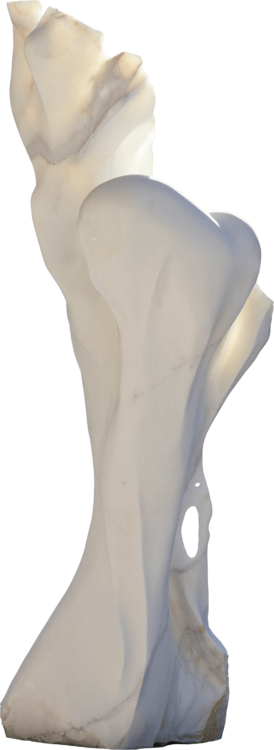
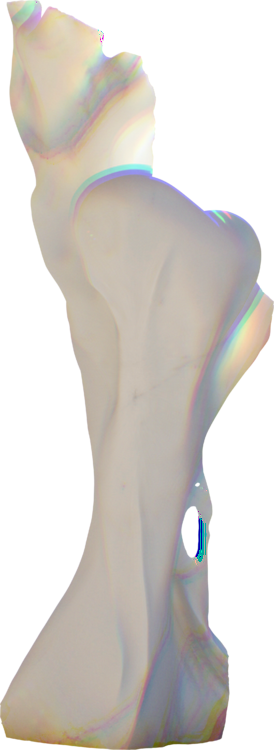
[add] better ui for synthwave, additional space theme

diff --git a/src/globalStyles/fonts.css b/src/globalStyles/fonts.css
@@ -25,3 +25,15 @@
     font-family: "BoordensStreet";
     src: url("/fonts/Boordens-street/Boordens Street.otf");
 }
+
+@font-face {
+    font-family: "Sterion";
+    font-weight: normal;
+    src: url("/fonts/Sterion/Sterion.ttf");
+}
+
+@font-face {
+    font-family: "Trench";
+    font-weight: normal;
+    src: url("/fonts/Trench/TrenchThinAlt.otf");
+}

diff --git a/src/layouts/MarqueeText/MarqueeText.module.css b/src/layouts/MarqueeText/MarqueeText.module.css
@@ -1,11 +1,12 @@
+@import "@theme";
+
 .marquee {
     font-size: 20vh;
     line-height: 22.5vh;
-    /* overflow-y: visible; */
     color: var(--color5);
     opacity: 0.02;
     font-family: var(--font-header);
-    /* transition: all 0.5s ease; */
+    transition: all 0.5s ease;
     white-space: nowrap;
     user-select: none;
     position: absolute;

diff --git a/src/sections/Hero/Hero.module.css b/src/sections/Hero/Hero.module.css
@@ -3,11 +3,11 @@
 .heroContainer {
     position: relative;
     height: 100vh;
-    width: 80vw;
+    margin-left: 20vw;
+    margin-right: 20vw;
 }
 
 .heroIntro {
-    margin-left: 20vw;
     position: absolute;
     top: 50%;
     translate: 0 -50%;

diff --git a/src/globalStyles/animations.css b/src/globalStyles/animations.css
@@ -395,7 +395,7 @@
     }
 }
 
-@keyframes glitch-twitch {
+@keyframes glitchTwitch {
     0% {
         clip-path: inset(40% 0 61% 0);
         transform: skew(-3deg) translate(-2px, 0);

diff --git a/src/layouts/Project/Project.module.css b/src/layouts/Project/Project.module.css
@@ -24,7 +24,7 @@
 }
 
 .title {
-    font-family: var(--font-special);
+    font-family: var(--font-header);
     font-size: clamp(1.4rem, 4vw, 2.8rem);
     font-weight: normal;
     color: var(--color5);

diff --git a/src/globalStyles/themes.css b/src/globalStyles/themes.css
@@ -4,6 +4,7 @@
 
 @import "@globalStyles/themes/classic.css";
 @import "@globalStyles/themes/synthwave.css";
+@import "@globalStyles/themes/space.css";
 
 *::selection {
     background-color: var(--color2);